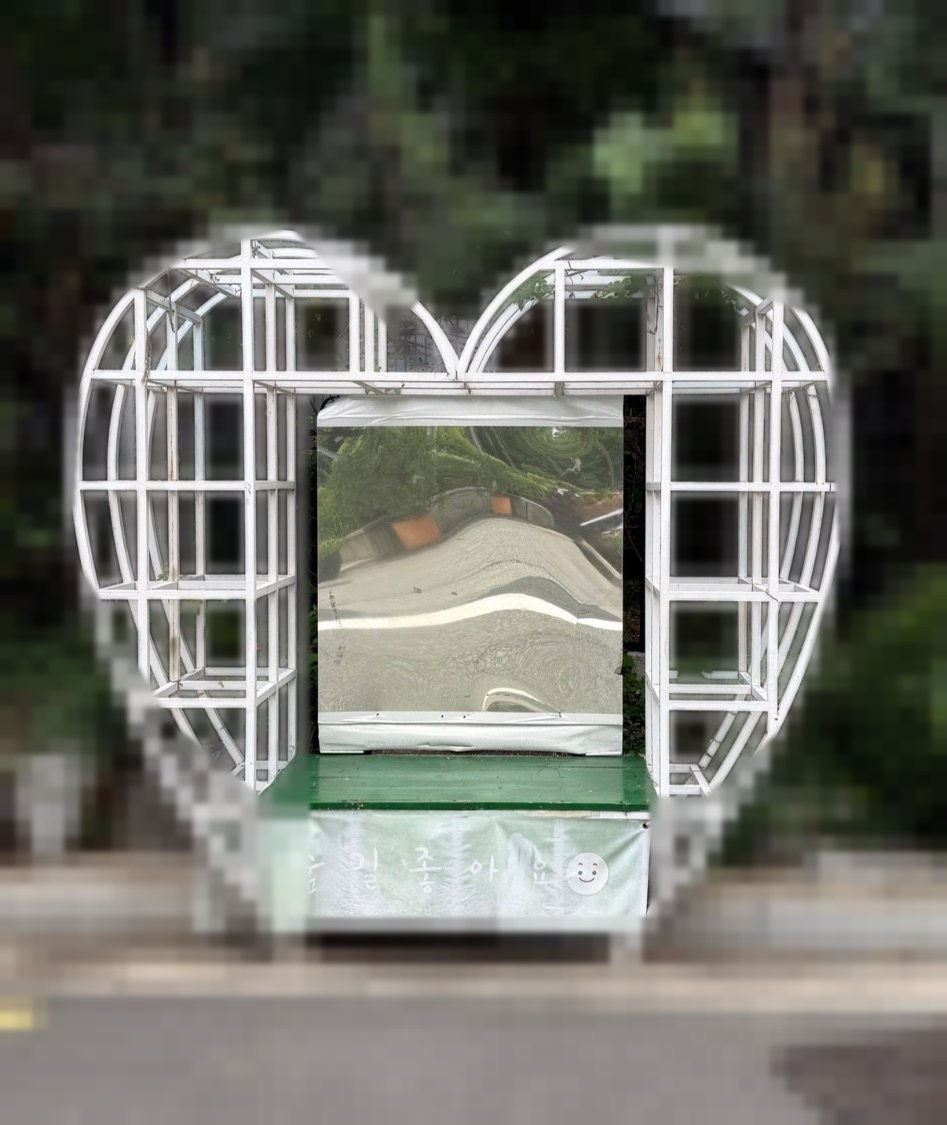
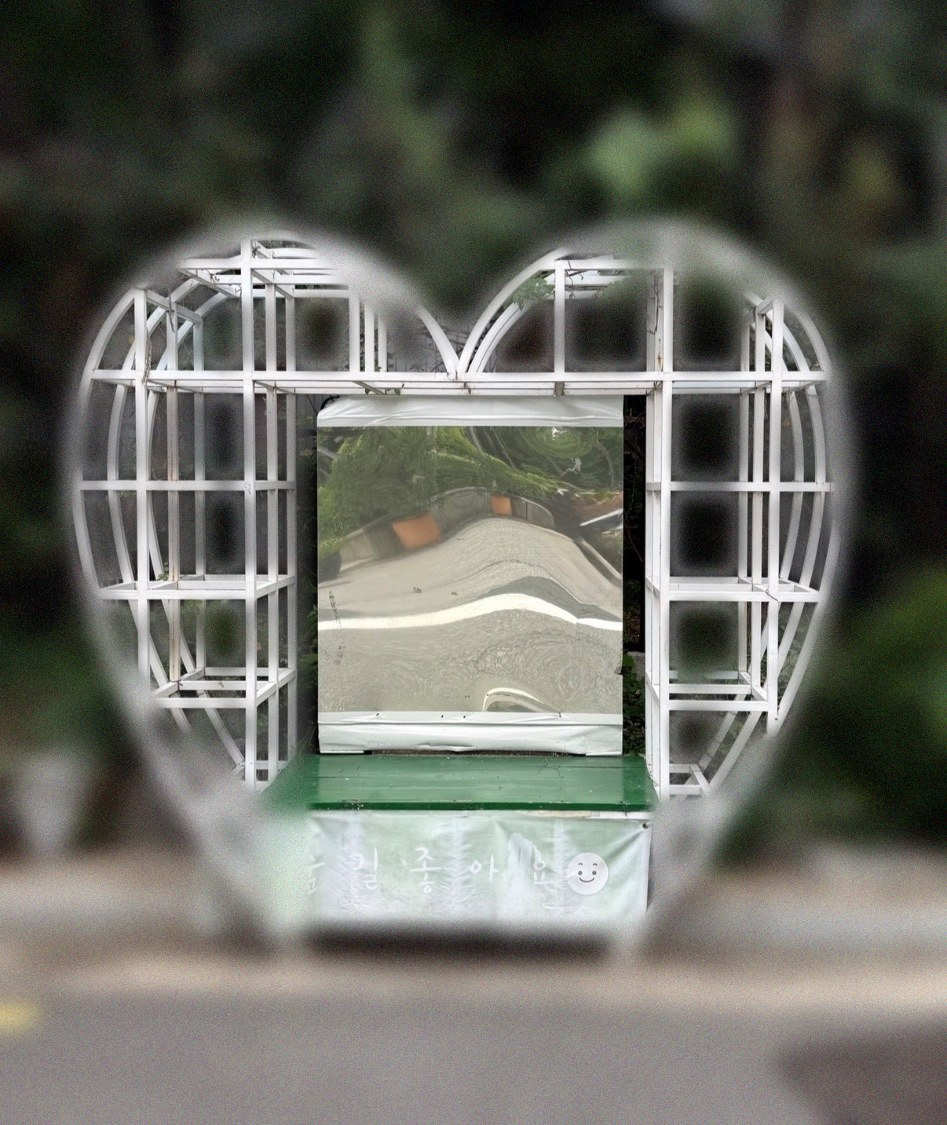
Update heart sculpture mosaic blur, add FILE_08 cafe photo
Replace file04_heart.jpg with a softer sand-grain mosaic treatment
that blends naturally into the background instead of isolated blur
patches. Wire the cafe surveillance photo into FILE_08's detail
content with click-to-zoom via openPhotoZoom(), matching the pattern
used by FILE_01/04/09.

Claude-Session: https://claude.ai/code/session_01JNSv2zALJDpwVya8qsmDtn

diff --git a/index.html b/index.html
@@ -1270,7 +1270,7 @@ const files = [
    answer:'ROSE',unlockCode:'NULL-Z',unlockSeparator:{char:'-',after:4},answerLen:5,
    content:`<div class="detail-section"><div class="detail-section-title">▶ 사건 일지 — 2025. 02. 23</div><div>"NULL-Z" 그들이 거래하는 약물의 이름이다.<br>무슨 재료로 만드는지는 아직 모르지만..</div></div>
    <div class="detail-section"><div class="detail-section-title">▶ 사건 일지 — 2025. 02. 26</div><div>오늘 N32로부터 메세지와 함께 사진이 왔다.</div></div>
-   <img class="detail-photo" src="assets/file04_heart.jpg?v=2" alt="하트 조형물" onclick="openPhotoZoom('assets/file04_heart.jpg?v=2')">
+   <img class="detail-photo" src="assets/file04_heart.jpg?v=3" alt="하트 조형물" onclick="openPhotoZoom('assets/file04_heart.jpg?v=3')">
    <div class="detail-section"><div class="detail-section-title">▶ 사건 일지 — 2025. 02. 26</div><div>사진의 이 조형물.. 가로등 AB-078 근처에서 봤던 기억이 있다.<br>현장 분석 카메라로 비춰 확인해보자.</div></div>
    <div class="detail-section" style="border:1px solid #c8a840;background:#1a1810;padding:10px;"><div style="color:#c8a840;font-size:10px;letter-spacing:2px;">📸 현장 분석 모드 (구현 예정)</div><div style="font-size:10px;color:#8a7a40;margin-top:4px;">카메라로 현장을 비추면 주변 식물을 분석합니다.</div></div>`,
    hints:['하트 조형물을 찾아가보세요.','현장 분석 모드로 카메라를 켜보세요.'],answerText:'정답: 장미 (ROSE)',
@@ -1327,7 +1327,7 @@ const files = [
   {num:9,name:'FILE_08',sub:'카페 — QR 스티커',icon:'📷',unlocked:false,
    answer:'567',unlockCode:'FADE',answerLen:3,
    content:`<div class="detail-section"><div class="detail-section-title">▶ 사건 일지 — 2025. 03. 09</div><div>주변을 살피던 중 카페 하나가 눈에 들어왔다.<br>창가에 같은 복장에 마스크를 쓴 무리들.<br>사진을 찍어 확대해보니 — 왼쪽 어깨에 동일한 마크가 찍혀있다.<br><br>저놈들이다.<br><br>카페 근처 가로등에 같은 마크가 붙어 있다.<br>확인해봐야겠다.</div></div>
-   <div class="detail-img">[ 파파라치 카페 사진: 눈썹이 없는 사람들 마스크 + 어깨 마크 빨간색 동그라미 표시 ]</div>`,
+   <img class="detail-photo" src="assets/file08_cafe.jpg" alt="카페 파파라치 사진" onclick="openPhotoZoom('assets/file08_cafe.jpg')">`,
    hints:['카페 근처 가로등에서 BLANK 마크 QR을 찾으세요.','QR 스캔 → 070 전화번호 발견 → 전화 걸기'],answerText:'정답: 567 (동교동 56-7번지)'},
 
   // #10 FILE_09
